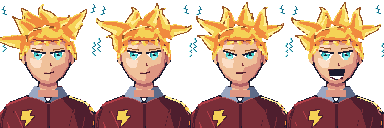
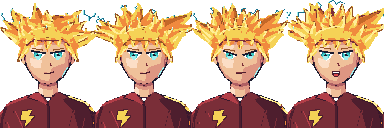
Bolt bust: insanely spiky 3-layer hair, arcs on tips, small shout mouth, neck/collar/rim fixes
Claude-Session: https://claude.ai/code/session_01J8LgTLVYzThXjNSRVhWqep

diff --git a/tools/sprites/anime_bolt.py b/tools/sprites/anime_bolt.py
@@ -26,40 +26,78 @@ BT_SUIT = MAROON; BT_SUIT_L = (178, 62, 72); BT_SUIT_D = (78, 30, 46)
 BT_STEEL = (93, 107, 138); BT_STEEL_L = (154, 167, 194)
 BT_BROW = (150, 84, 40)
 BT_RIM = (255, 238, 150)
-BT_PALETTE = [INK, MAROON, SK, SK_L, SK_S, SK_D, WHITE, BT_TEAL, BT_TEAL_D, BT_TEAL_L, BT_HY, BT_HY_L, BT_HY_D, BT_HY_E,
+BT_PALETTE = [(58, 24, 44), INK, MAROON, SK, SK_L, SK_S, SK_D, WHITE, BT_TEAL, BT_TEAL_D, BT_TEAL_L, BT_HY, BT_HY_L, BT_HY_D, BT_HY_E,
               BT_SUIT_L, BT_SUIT_D, BT_STEEL, BT_STEEL_L, BT_BROW, RED]
 BT_SUITS = {BT_SUIT, BT_SUIT_L, BT_SUIT_D, RED}
 BT_HAIRS = {BT_HY, BT_HY_L, BT_HY_D, BT_HY_E}
 BT_EYECOLS = {WHITE, BT_TEAL, BT_TEAL_D, BT_TEAL_L}
 
 # ---------------------------------------------------------------- the look (variant = a dict)
-BT_SPIKES = {
-    # root, tip, width, bend  (design units; head top y 12.8, tips may reach y 0.5)
-    "up": [((34.5, 18.5), (45.0, 11.0), 6.5, -2.0), ((32.0, 16.0), (39.5, 3.0), 7.5, 2.2), ((28.0, 14.5), (31.0, 6.4), 6.5, -1.4),
-           ((25.0, 14.0), (26.5, 0.8), 8, 2.2), ((20.5, 14.5), (13.5, 3.0), 8.5, -2.4), ((17.5, 16.0), (17.0, 6.0), 6, 1.2),
-           ((15.5, 18.5), (3.0, 7.5), 8, 2.0), ((13.5, 22.0), (0.8, 18.0), 7, -1.4)],
-    "swept": [((34.0, 19.0), (40.0, 9.0), 6.5, -1.2), ((31.0, 16.5), (31.0, 3.0), 7, 1.6), ((26.5, 15.0), (18.0, 1.2), 7.5, -2.0),
-              ((21.5, 15.5), (7.0, 2.4), 8, 1.8), ((17.5, 18.0), (1.5, 9.0), 8, -1.8), ((14.5, 21.5), (0.8, 18.0), 7, 1.2)],
-    "fringe": [((34.0, 19.0), (41.0, 11.0), 7, -1.0), ((30.5, 16.0), (35.5, 6.0), 7.5, 1.2), ((26.0, 14.5), (27.0, 3.6), 7.5, -1.2),
-               ((21.5, 14.5), (19.0, 3.8), 7.5, 1.2), ((17.0, 16.0), (10.5, 5.5), 8, -1.2), ((14.0, 20.0), (4.5, 12.0), 8, 1.0)],
-    "mohawk": [((27.5, 15.0), (34.0, 3.0), 7.5, -1.4), ((24.0, 14.0), (26.0, 0.6), 8, 1.4), ((20.5, 14.5), (17.0, 1.2), 8, -1.4),
-               ((17.0, 16.0), (8.0, 3.2), 7.5, 1.2), ((31.0, 16.5), (41.0, 5.0), 7, 1.2), ((14.0, 20.0), (3.0, 12.0), 7, -1.0),
-               ((34.5, 19.5), (45.0, 13.0), 6.5, -1.0)],
+# Hair takes: three depth layers (back = deep orange mass, mid, front) of irregular spikes. Each layer is
+# (count, angle from, angle to (deg from vertical, + = right), tip length base); `lean` rotates the whole crown,
+# `seed` jitters angles / lengths so nothing is evenly spaced. Tips are clamped inside the frame.
+BT_TAKES = {
+    "explode": dict(back=(10, -58, 58, 26), mid=(9, -52, 54, 21), front=(8, -38, 40, 12), lean=0, seed=3, bang=3),
+    "swept": dict(back=(10, -80, 32, 27), mid=(9, -74, 30, 22), front=(8, -62, 24, 13), lean=-6, seed=11, bang=3),
+    "clumps": dict(back=(9, -60, 62, 27), mid=(10, -56, 58, 22), front=(8, -42, 46, 13), lean=4, seed=7, bang=4, clump=True),
+    "pomp": dict(back=(9, -50, 54, 25), mid=(8, -26, 62, 25), front=(7, -16, 52, 19), lean=8, seed=5, bang=3),
 }
-BT_BANGS = {
-    "up": [((19.6, 19.0), (18.0, 22.4), 5.0), ((24.0, 19.0), (24.0, 22.8), 4.6), ((28.6, 19.0), (30.2, 22.4), 5.0)],
-    "swept": [((20.4, 19.0), (17.0, 22.4), 5.0), ((26.0, 19.0), (23.6, 22.8), 4.8), ((30.0, 19.0), (28.8, 22.2), 4.4)],
-    "fringe": [((17.5, 19.0), (16.0, 22.8), 5.2), ((21.5, 19.0), (20.4, 23.2), 5.0), ((25.5, 19.0), (25.4, 23.0), 5.0),
-               ((29.5, 19.0), (30.4, 22.8), 5.0), ((33.0, 19.4), (34.2, 22.4), 4.4)],
-    "mohawk": [((22.0, 19.0), (21.0, 22.0), 4.4), ((27.0, 19.0), (28.0, 22.0), 4.4)],
-}
-BT_BASE = dict(spikes="up", eyes="narrow", acc="none", mouth="smirk")
+BT_BASE = dict(take="explode", eyes="narrow", acc="none", mouth="smirk")
+BT_TIPS = []
+
+
+def bt_layers(take, flare=1.0):
+    import random
+    import math as m
+    T = BT_TAKES[take]
+    rng = random.Random(T["seed"])
+    out = []
+    # tip height ranges per depth (design y): back reaches the frame top, front stays on the crown
+    heights = {0: (0.9, 11.0), 1: (3.0, 12.0), 2: (7.0, 14.5)}
+    for name, depth in (("back", 0), ("mid", 1), ("front", 2)):
+        n, a0, a1, L0 = T[name]
+        layer = []
+        for i in range(n):
+            u = i / (n - 1)
+            a = a0 + (a1 - a0) * u + rng.uniform(-6, 6) + T["lean"]
+            if T.get("clump") and i % 3 == 1:
+                a = layer[-1][4] + rng.uniform(5, 9)
+            ang = m.radians(a)
+            th = m.radians(max(-95, min(95, (a - T["lean"]) * 1.5)))
+            rt = (24 + 11.0 * m.sin(th), 20.6 - 7.0 * m.cos(th) + depth * 0.8)
+            hlo, hhi = heights[depth]
+            centre = 1.0 - abs(u - 0.5) * 2 * 0.4          # taller towards the middle
+            ty = hhi - (hhi - hlo) * centre * rng.choice((0.25, 0.45, 0.6, 0.8, 1.0, 1.0)) * rng.uniform(0.9, 1.0) - (flare - 1.0) * 14
+            ty = max(ty, 0.9)
+            dy = -m.cos(ang)
+            ln = (rt[1] - ty) / max(-dy, 0.35)
+            ln = min(ln, L0 * 1.25) * flare ** 0.5
+            dx = m.sin(ang)
+            tx = rt[0] + dx * ln
+            if tx < 1.0:
+                ln *= (rt[0] - 1.0) / max(rt[0] - tx, 1e-3)
+            elif tx > 47.0:
+                ln *= (47.0 - rt[0]) / max(tx - rt[0], 1e-3)
+            tip = (rt[0] + dx * ln, max(0.9, rt[1] + dy * ln))
+            w = (8.0 - 1.2 * depth) * rng.uniform(0.85, 1.1)
+            bend = rng.uniform(-1.8, 1.8)
+            layer.append((rt, tip, w, bend, a))
+        out.append(layer)
+    return out
+
+
+def bt_bangs(take, s):
+    """Spikes down over the forehead: a thin one between the eyes, two over the temples, short ones either side."""
+    n = BT_TAKES[take]["bang"]
+    sets = [((24.0, 19.0), (24.3, 25.6), 3.8), ((19.8, 19.0), (17.6, 23.4), 5.0), ((28.4, 19.0), (30.2, 23.0), 5.0),
+            ((15.5, 19.5), (13.4, 24.0), 4.4)]
+    return sets[:n]
 BT_CFG = dict(BT_BASE)
 
 
 # ---------------------------------------------------------------- torso
-BT_LCOLLAR = [(14.0, 44.6), (17.4, 39.6), (19.6, 40.0), (23.6, 48.0), (19.4, 46.0)]
-BT_RCOLLAR = [(34.0, 44.6), (30.6, 39.6), (28.4, 40.0), (24.4, 48.0), (28.6, 46.0)]
+BT_LCOLLAR = [(14.0, 45.2), (18.2, 42.6), (20.2, 43.2), (23.6, 49.0), (19.6, 47.0)]
+BT_RCOLLAR = [(34.0, 45.2), (29.8, 42.6), (27.8, 43.2), (24.4, 49.0), (28.4, 47.0)]
 BT_BOLT = [(11.0, 52.2), (16.0, 51.4), (14.6, 54.6), (17.6, 54.2), (11.8, 61.0), (13.2, 56.6), (10.2, 56.8)]
 
 
@@ -86,12 +124,14 @@ def bt_torso(img, d):
     d.line([P(24.7, 47.6), P(24.7, 64.5)], fill=BT_STEEL, width=4)
     poly(d, BT_BOLT, YELLOW)
     d.line([P(*p) for p in (BT_BOLT[0], BT_BOLT[1], BT_BOLT[2])], fill=BT_HY_L, width=3)
-    # collar: stand-up, lit left, gold piping
-    shape(d, BT_LCOLLAR, BT_STEEL_L, col=BT_SUIT_D)
-    shape(d, BT_RCOLLAR, BT_STEEL, col=BT_SUIT_D)
-    d.line([P(*p) for p in (BT_LCOLLAR[0], BT_LCOLLAR[1], BT_LCOLLAR[2])], fill=WHITE, width=4)
-    d.line([P(*p) for p in (BT_RCOLLAR[0], BT_RCOLLAR[1], BT_RCOLLAR[2])], fill=BT_STEEL_L, width=4)
-    paste_mask(img, SK_S, both(neckm, box_mask(0, 41.5, 48, 80)))
+    paste_mask(img, SK_L, both(neckm, box_mask(0, 0, 21.4, 80)))
+    paste_mask(img, SK_S, both(neckm, box_mask(26.6, 0, 48, 80)))
+    d = ImageDraw.Draw(img)
+    # collar
+    shape(d, BT_LCOLLAR, BT_SUIT_L, col=BT_SUIT_D)
+    shape(d, BT_RCOLLAR, BT_SUIT, col=BT_SUIT_D)
+    d.line([P(*p) for p in (BT_LCOLLAR[0], BT_LCOLLAR[1], BT_LCOLLAR[2])], fill=BT_STEEL_L, width=4)
+    d.line([P(*p) for p in (BT_RCOLLAR[0], BT_RCOLLAR[1], BT_RCOLLAR[2])], fill=BT_STEEL, width=4)
     YOFF[0] = 0.0
     return neckm, torm
 
@@ -137,10 +177,7 @@ def bt_eye(img, d, cx, cy, side, o, kind, wide=1.0):
 def bt_mouth(d, kind, expr):
     YOFF[0] = -2.7
     if expr == "shout":
-        pts = [(20.4, 37.6), (28.4, 37.4), (27.6, 41.2), (24.4, 42.8), (21.2, 41.2)]
-        poly(d, pts, INK)
-        rect(d, 21.0, 37.9, 27.8, 39.7, WHITE)
-        outline(d, pts, 5, col=MAROON)
+        pass   # exact pixels after the pixel art (bt_shout)
     elif expr == "determined":
         d.line([P(22.0, 39.2), P(24.4, 39.3), P(26.8, 38.7)], fill=MAROON, width=8, joint="curve")
     elif kind == "grin":
@@ -175,6 +212,7 @@ def bt_face(img, neckm, torm, expr):
     paste_mask(img, SK_D, both(both(facem, inv(shift(facem, int(-9 * F), 0))), box_mask(0, 25, 48, 40)))
     paste_mask(img, BT_RIM, both(both(facem, inv(shift(facem, int(-4 * F), 0))), box_mask(0, 26, 48, 36)))
     d = ImageDraw.Draw(img)
+    d = ImageDraw.Draw(img)
     d.line([P(24.0, 25.4), P(24.0, 30.0)], fill=SK_L, width=7)
     d.line([P(25.0, 31.4), P(25.5, 33.0)], fill=SK_D, width=7)
     bt_mouth(d, BT_CFG["mouth"], expr)
@@ -206,26 +244,38 @@ def bt_hair_col(t):
     return BT_HY_L
 
 
-def bt_spike(hd, root, tip, w, bend, sway, ph, shade=1, n=24):
-    # tongues with cols: deep orange edge, lit band on the left, orange shade band on the right
+def bt_spike(hd, root, tip, w, bend, sway, ph, shade=1, n=24, depth=1):
+    # tongues with cols: orange edge, no ink; back layer deep orange, mid yellow, front lighter
+    fn = {0: lambda t: BT_HY_D if t < 0.62 else BT_HY, 1: bt_hair_col, 2: lambda t: BT_HY if t < 0.5 else BT_HY_L}[depth]
+    shade_c = BT_HY_E if depth == 0 else BT_HY_D
+    lit_c = BT_HY if depth == 0 else BT_HY_L
     return tongue(hd, root, tip, w, bend, sway=sway, shade_side=shade, ph=ph, wave=0.05, n=n, ow=6,
-                  cols=(BT_EDGE, bt_hair_col, BT_HY_D, BT_HY_L),
-                  bands=[(shade, 0.3, 1.0, 0.1, 0.7, BT_HY_D), (-shade, 0.4, 1.0, 0.3, 0.85, BT_HY_L)])
+                  cols=(BT_EDGE, fn, shade_c, lit_c),
+                  bands=[(shade, 0.3, 1.0, 0.1, 0.75, shade_c), (-shade, 0.4, 1.0, 0.25, 0.9, lit_c)])
 
 
-def bt_hair(img, facem, s):
+def bt_hair(img, facem, s, expr="calm"):
+    global BT_TIPS
+    BT_TIPS = []
     hl = Image.new("RGBA", img.size, (0, 0, 0, 0))
     hd = ImageDraw.Draw(hl)
     cap_pts = BT_CAP + BT_HAIRLINE[::-1]
-    poly(hd, cap_pts, BT_HY)
     cap = poly_mask(cap_pts)
-    sp = BT_SPIKES[BT_CFG["spikes"]]
-    for i, (r, t, w, b) in enumerate(sp):
-        sw = s * (3.0 + 1.0 * (i % 2)) * (-1 if r[0] > 24 else 1) * (-1 if i % 3 == 0 else 1)
-        bt_spike(hd, r, t, w, b, sw, i * 0.37 + s * 0.3, shade=1 if r[0] < 24 else -1)
+    flare = 1.14 if expr == "shout" else 1.0
+    layers = bt_layers(BT_CFG["take"], flare)
+    for depth, layer in enumerate(layers):
+        if depth == 2:
+            poly(hd, cap_pts, BT_HY)
+        for i, (r, t, w, b, a) in enumerate(layer):
+            h = ((i * 7 + depth * 3) % 5 - 2) / 2.0           # -1 .. 1, fixed per spike
+            sw = s * 3.2 * h + (0.8 * flare if expr == "shout" else 0) * h
+            cs, _ = bt_spike(hd, r, t, w * (1.06 if expr == "shout" else 1.0), b, sw, i * 0.37 + s * 0.3 + depth,
+                             shade=1 if a < 0 else -1, depth=depth)
+            if depth < 2 or i % 2 == 0:
+                BT_TIPS.append((cs[-1][0] * 2, cs[-1][1] * 2, depth))
     # side locks over the top of each ear
-    for side, (r, t) in ((-1, ((13.4, 21.0), (10.4, 30.0))), (1, ((34.6, 21.0), (37.6, 30.0)))):
-        bt_spike(hd, r, t, 4.4, 0.8 * side, s * 0.5 * -side, 0.5 + s * 0.2, shade=-side, n=18)
+    for side, (r, t) in ((-1, ((13.4, 21.0), (9.6, 32.0))), (1, ((34.6, 21.0), (38.4, 32.0)))):
+        bt_spike(hd, r, t, 4.8, 1.0 * side, s * 0.5 * -side, 0.5 + s * 0.2, shade=-side, n=18, depth=2)
     # crown gloss (lit, top left) and a shade band along the hairline
     gl = both(both(cap, inv(shift(cap, int(4 * F), int(5 * F)))), box_mask(0, 12, 28, 21))
     hl.paste(BT_HY_L + (255,), (0, 0), gl)
@@ -235,8 +285,8 @@ def bt_hair(img, facem, s):
     img.paste(SK_S, (0, 0), shd)
     shd2 = both(both(shift(cap, 0, int(6 * F)), facem), inv(cap))
     img.paste(SK_D, (0, 0), shd2)
-    for i, (r, t, w) in enumerate(BT_BANGS[BT_CFG["spikes"]]):
-        bt_spike(hd, r, t, w, 0.6 * (1 if i % 2 else -1), s * 0.5, i + s * 0.3, shade=1 if i % 2 == 0 else -1, n=14)
+    for i, (r, t, w) in enumerate(bt_bangs(BT_CFG["take"], s)):
+        bt_spike(hd, r, t, w, 0.6 * (1 if i % 2 else -1), s * 0.5, i + s * 0.3, shade=1 if i % 2 == 0 else -1, n=14, depth=2)
     img.paste(hl, (0, 0), hl.split()[3])
     d = ImageDraw.Draw(img)
     d.line([P(*p) for p in BT_HAIRLINE], fill=SK_D, width=4, joint="curve")
@@ -271,7 +321,7 @@ def bt_draw_frame(sway=0.0, expr="calm"):
     d = ImageDraw.Draw(img)
     neckm, torm = bt_torso(img, d)
     facem = bt_face(img, neckm, torm, expr)
-    bt_hair(img, facem, sway)
+    bt_hair(img, facem, sway, expr)
     bt_accessory(img)
     return img
 
@@ -322,26 +372,79 @@ def bt_line(px, w, h, a, b, col):
 
 
 # arcs crackling off the head: start pixel, then zig-zag offsets; the two phases alternate with the frame
-BT_ARCS = [((5, 14), [(-3, -1), (2, -3), (-3, -1), (2, -3)]), ((90, 12), [(3, -1), (-2, -3), (3, -1), (-2, -3)]),
-           ((3, 38), [(-1, 3), (3, 2), (-3, 3), (3, 2), (-3, 3)]), ((93, 42), [(1, 3), (-3, 2), (3, 3), (-3, 2), (3, 3)])]
+BT_PLUM = (58, 24, 44)
 
 
-def bt_arcs(out, sway):
-    """Lightning forks jumping off the head: 2 px bolts (dark teal under, light teal / white over), re-jittered per frame."""
+def bt_zig(px, w, h, a, b, ph, amp=2):
+    """Zig-zag bolt from a to b: dark teal under, light teal / white over, only on empty pixels."""
+    import math as m
+    dx, dy = b[0] - a[0], b[1] - a[1]
+    L = max(m.hypot(dx, dy), 1)
+    nx, ny = -dy / L, dx / L
+    n = max(3, int(L / 3.5))
+    pts = [a]
+    for k in range(1, n):
+        t = k / n
+        o = amp * (1 if (k + ph) % 2 else -1)
+        pts.append((round(a[0] + dx * t + nx * o), round(a[1] + dy * t + ny * o)))
+    pts.append(b)
+    for j in range(len(pts) - 1):
+        bt_line(px, w, h, (pts[j][0] + 1, pts[j][1]), (pts[j + 1][0] + 1, pts[j + 1][1]), BT_TEAL_D)
+    for j in range(len(pts) - 1):
+        bt_line(px, w, h, pts[j], pts[j + 1], BT_TEAL_L if j % 2 == 0 else WHITE)
+
+
+def bt_arcs(out, sway, frame):
+    """Electric rim on some spike tips, bolts jumping between tips and off the outer ones."""
     px = out.load()
-    ph = 1 if sway >= 0 else 0
-    for k, ((x, y), steps) in enumerate(BT_ARCS):
-        x += ph * (1 if k % 2 else -1)
-        y += ph * (k % 2)
-        pts = [(x, y)]
-        for j, (dx, dy) in enumerate(steps):
-            sgn = -1 if ph else 1
-            pts.append((pts[-1][0] + dx * sgn, pts[-1][1] + dy))
-        for j in range(len(pts) - 1):
-            a, b = pts[j], pts[j + 1]
-            bt_line(px, out.width, out.height, (a[0] + 1, a[1]), (b[0] + 1, b[1]), BT_TEAL_D)
-        for j in range(len(pts) - 1):
-            bt_line(px, out.width, out.height, pts[j], pts[j + 1], BT_TEAL_L if j % 2 == 0 else WHITE)
+    tips = sorted(((round(x), round(y), d) for x, y, d in BT_TIPS), key=lambda t: t[0])
+    W_, H_ = out.width, out.height
+    # rim: tip pixel white, the 2 px below it light teal when hair is there
+    for k, (x, y, d) in enumerate(tips):
+        if (k + frame) % 3 == 0:
+            for j, col in enumerate((WHITE, BT_TEAL_L, BT_TEAL_L)):
+                yy = y + j
+                if 0 <= x < W_ and 0 <= yy < H_ and (px[x, yy][3] > 0 or j == 0):
+                    px[x, yy] = col + (255,)
+    top = [t for t in tips if t[1] < 26]
+    pairs = []
+    for k in range(len(top) - 1):
+        a, b = top[k], top[k + 1]
+        dist = abs(a[0] - b[0]) + abs(a[1] - b[1])
+        if 8 <= dist <= 26:
+            pairs.append((a, b))
+    for k, (a, b) in enumerate(pairs):
+        if (k + frame) % 3 == 1:
+            bt_zig(px, W_, H_, (a[0], a[1]), (b[0], b[1]), frame)
+    if top:   # off the outermost tips
+        l, r = top[0], top[-1]
+        bt_zig(px, W_, H_, (l[0], l[1]), (max(1, l[0] - 6 - frame % 2), max(1, l[1] - 7 + frame % 2)), frame, 1)
+        bt_zig(px, W_, H_, (r[0], r[1]), (min(W_ - 2, r[0] + 6 + frame % 2), max(1, r[1] - 7 + frame % 2)), frame + 1, 1)
+
+
+def bt_cheek_rim(out):
+    """Electric teal rim on the right cheek: the pixel just inside the ink outline, jaw rows only."""
+    px = out.load()
+    for y in range(67, 80):
+        xs = [x for x in range(out.width - 1, 40, -1) if px[x, y][3] > 0]
+        if not xs:
+            continue
+        xr = xs[0]
+        for k in (1, 2) if y < 76 else (1,):
+            if px[xr - k, y][:3] in (SK, SK_S, SK_D, SK_L):
+                px[xr - k, y] = BT_TEAL_L + (255,)
+
+
+def bt_shout(out):
+    """Small rounded-D mouth: flat top with a 1 px teeth row, dark plum inside, a tongue hint, no ink."""
+    px = out.load()
+    x0, y0 = 44, 71
+    rows = ["OOOOOOOO", "OWWWWWWO", "OPPPPPPO", "OPTTTTPO", ".OTTTTO.", "..OOOO.."]
+    cols = {"O": BT_SUIT_D, "W": WHITE, "P": BT_PLUM, "T": RED}
+    for j, row in enumerate(rows):
+        for i, c in enumerate(row):
+            if c != ".":
+                px[x0 + i, y0 + j] = cols[c] + (255,)
 
 
 def bt_brows(out, expr):
@@ -366,7 +469,7 @@ def bt_brows(out, expr):
         px[x_in, y0 + 1 + tilt] = BT_BROW + (255,)
 
 
-def bt_frame(sway, expr, cfg=None):
+def bt_frame(sway, expr, cfg=None, frame=0):
     global BT_CFG
     BT_CFG = dict(BT_BASE, **(cfg or {}))
     src = bt_draw_frame(sway, expr)
@@ -385,23 +488,26 @@ def bt_frame(sway, expr, cfg=None):
     out = cleanup(out, prot)
     out = bt_recolor_interior(out, (38, 66, 60, 82) if expr == "shout" else None)
     bt_brows(out, expr)
-    bt_arcs(out, sway)
+    if expr == "shout":
+        bt_shout(out)
+    bt_cheek_rim(out)
+    bt_arcs(out, sway, frame)
     return out
 
 
 BT_FRAMES = [(-1, "calm"), (1, "calm"), (0.3, "determined"), (0.5, "shout")]
 
 BT_VARIANTS = [
-    ("A", dict(spikes="up", eyes="narrow", acc="none", mouth="smirk"),
-     "Godspeed crown: seven upright lightning spikes, narrow Flint-style teal eyes, smirk"),
-    ("B", dict(spikes="swept", eyes="sharp", acc="goggles", mouth="smirk"),
-     "Wind-swept back spikes, sharp slanted eyes, goggles strapped on the crown"),
-    ("C", dict(spikes="fringe", eyes="round", acc="plaster", mouth="grin"),
-     "Short spiky fringe, big round cheerful eyes, plaster on the nose, open grin"),
-    ("D", dict(spikes="mohawk", eyes="narrow", acc="headband", mouth="smirk"),
-     "Tall central mohawk of spikes, maroon bolt headband, narrow eyes, smirk"),
+    ("A", dict(take="explode", eyes="narrow", acc="none", mouth="smirk"),
+     "Explosive crown: big symmetric-ish fan of ~23 spikes in 3 layers, narrow teal eyes, smirk"),
+    ("B", dict(take="swept", eyes="narrow", acc="none", mouth="smirk"),
+     "Blast-back: the whole crown blown up and to the left, long streaking spikes"),
+    ("C", dict(take="clumps", eyes="narrow", acc="none", mouth="smirk"),
+     "Wild clumps: spikes in clusters of 3 with uneven gaps, tallest leaning both ways"),
+    ("D", dict(take="pomp", eyes="narrow", acc="none", mouth="smirk"),
+     "Mega pompadour: tall forward-leaning central mass with shorter flanks"),
 ]
-BT_SHIP = "A"
+BT_SHIP = "C"
 
 
 def bt_variants_sheet(review, flint):
@@ -436,7 +542,7 @@ def bolt_main():
     anime = os.path.join(root, "assets", "title", "anime")
     flint = Image.open(os.path.join(anime, "flint_bust.png")).convert("RGBA").crop((0, 0, W, H))
     cfg = dict(next(c for k, c, _ in BT_VARIANTS if k == BT_SHIP))
-    frames = [bt_frame(s, e, cfg) for s, e in BT_FRAMES]
+    frames = [bt_frame(s, e, cfg, k) for k, (s, e) in enumerate(BT_FRAMES)]
     strip = Image.new("RGBA", (W * 4, H), (0, 0, 0, 0))
     for i, f in enumerate(frames):
         strip.paste(f, (i * W, 0))
